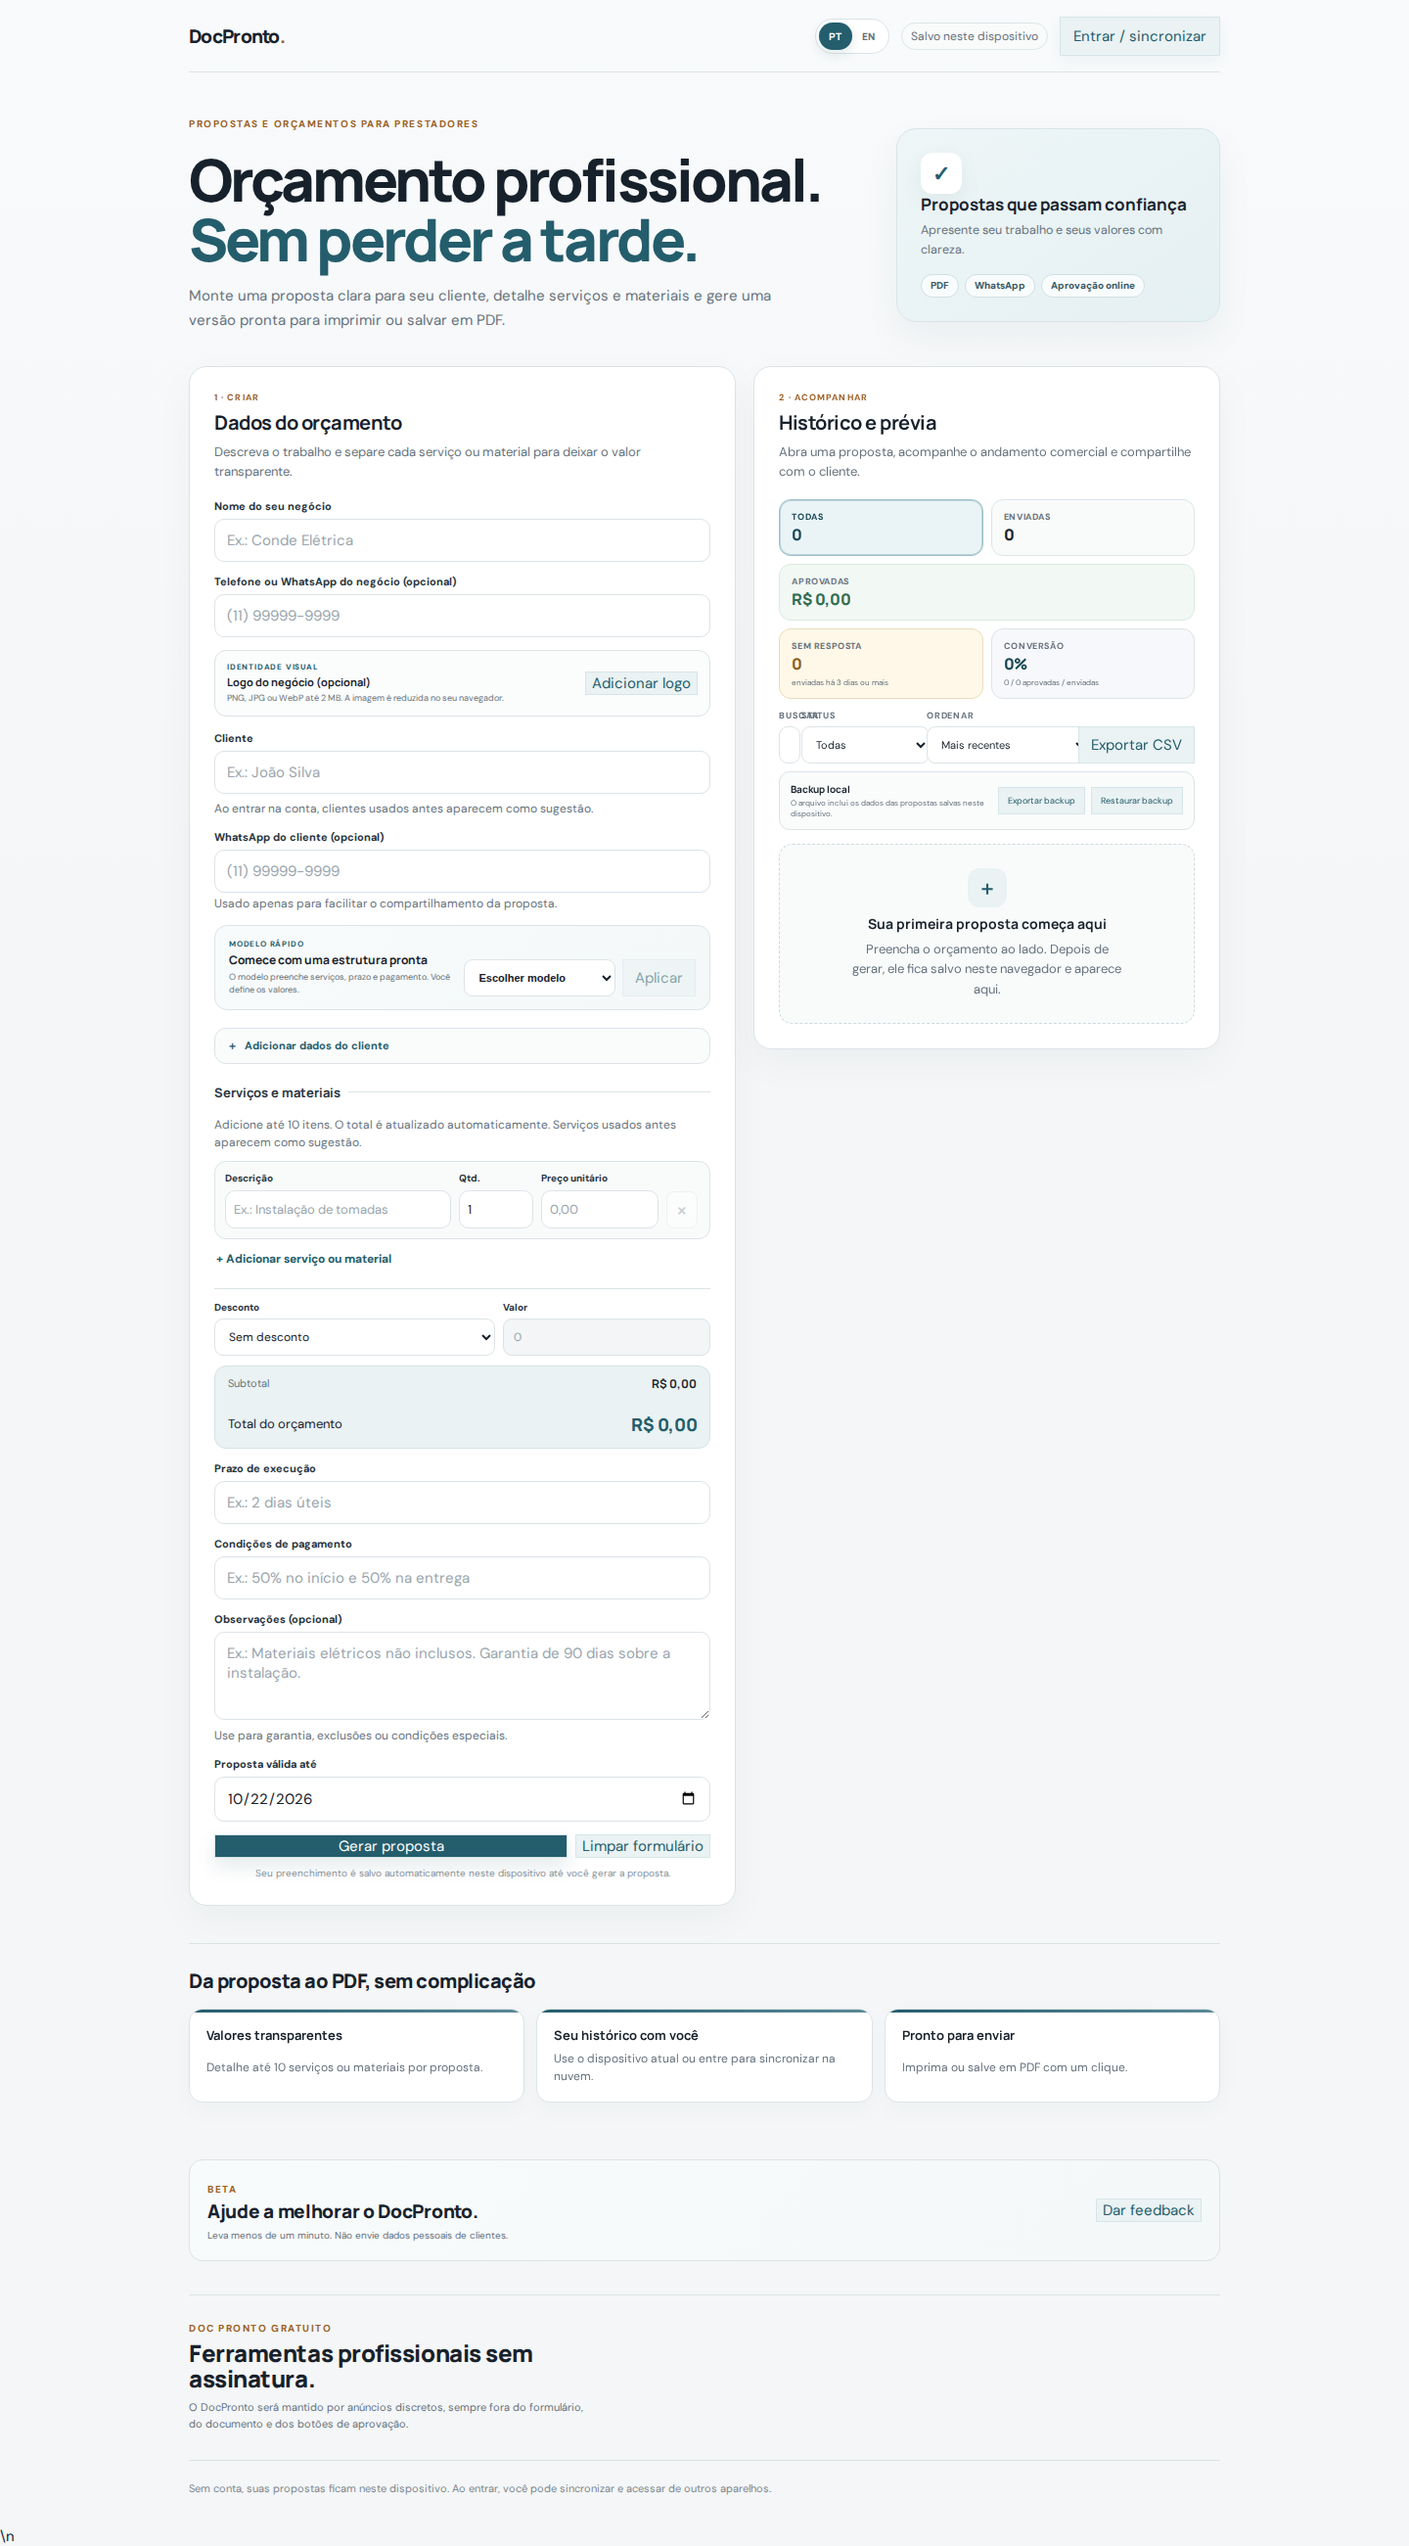
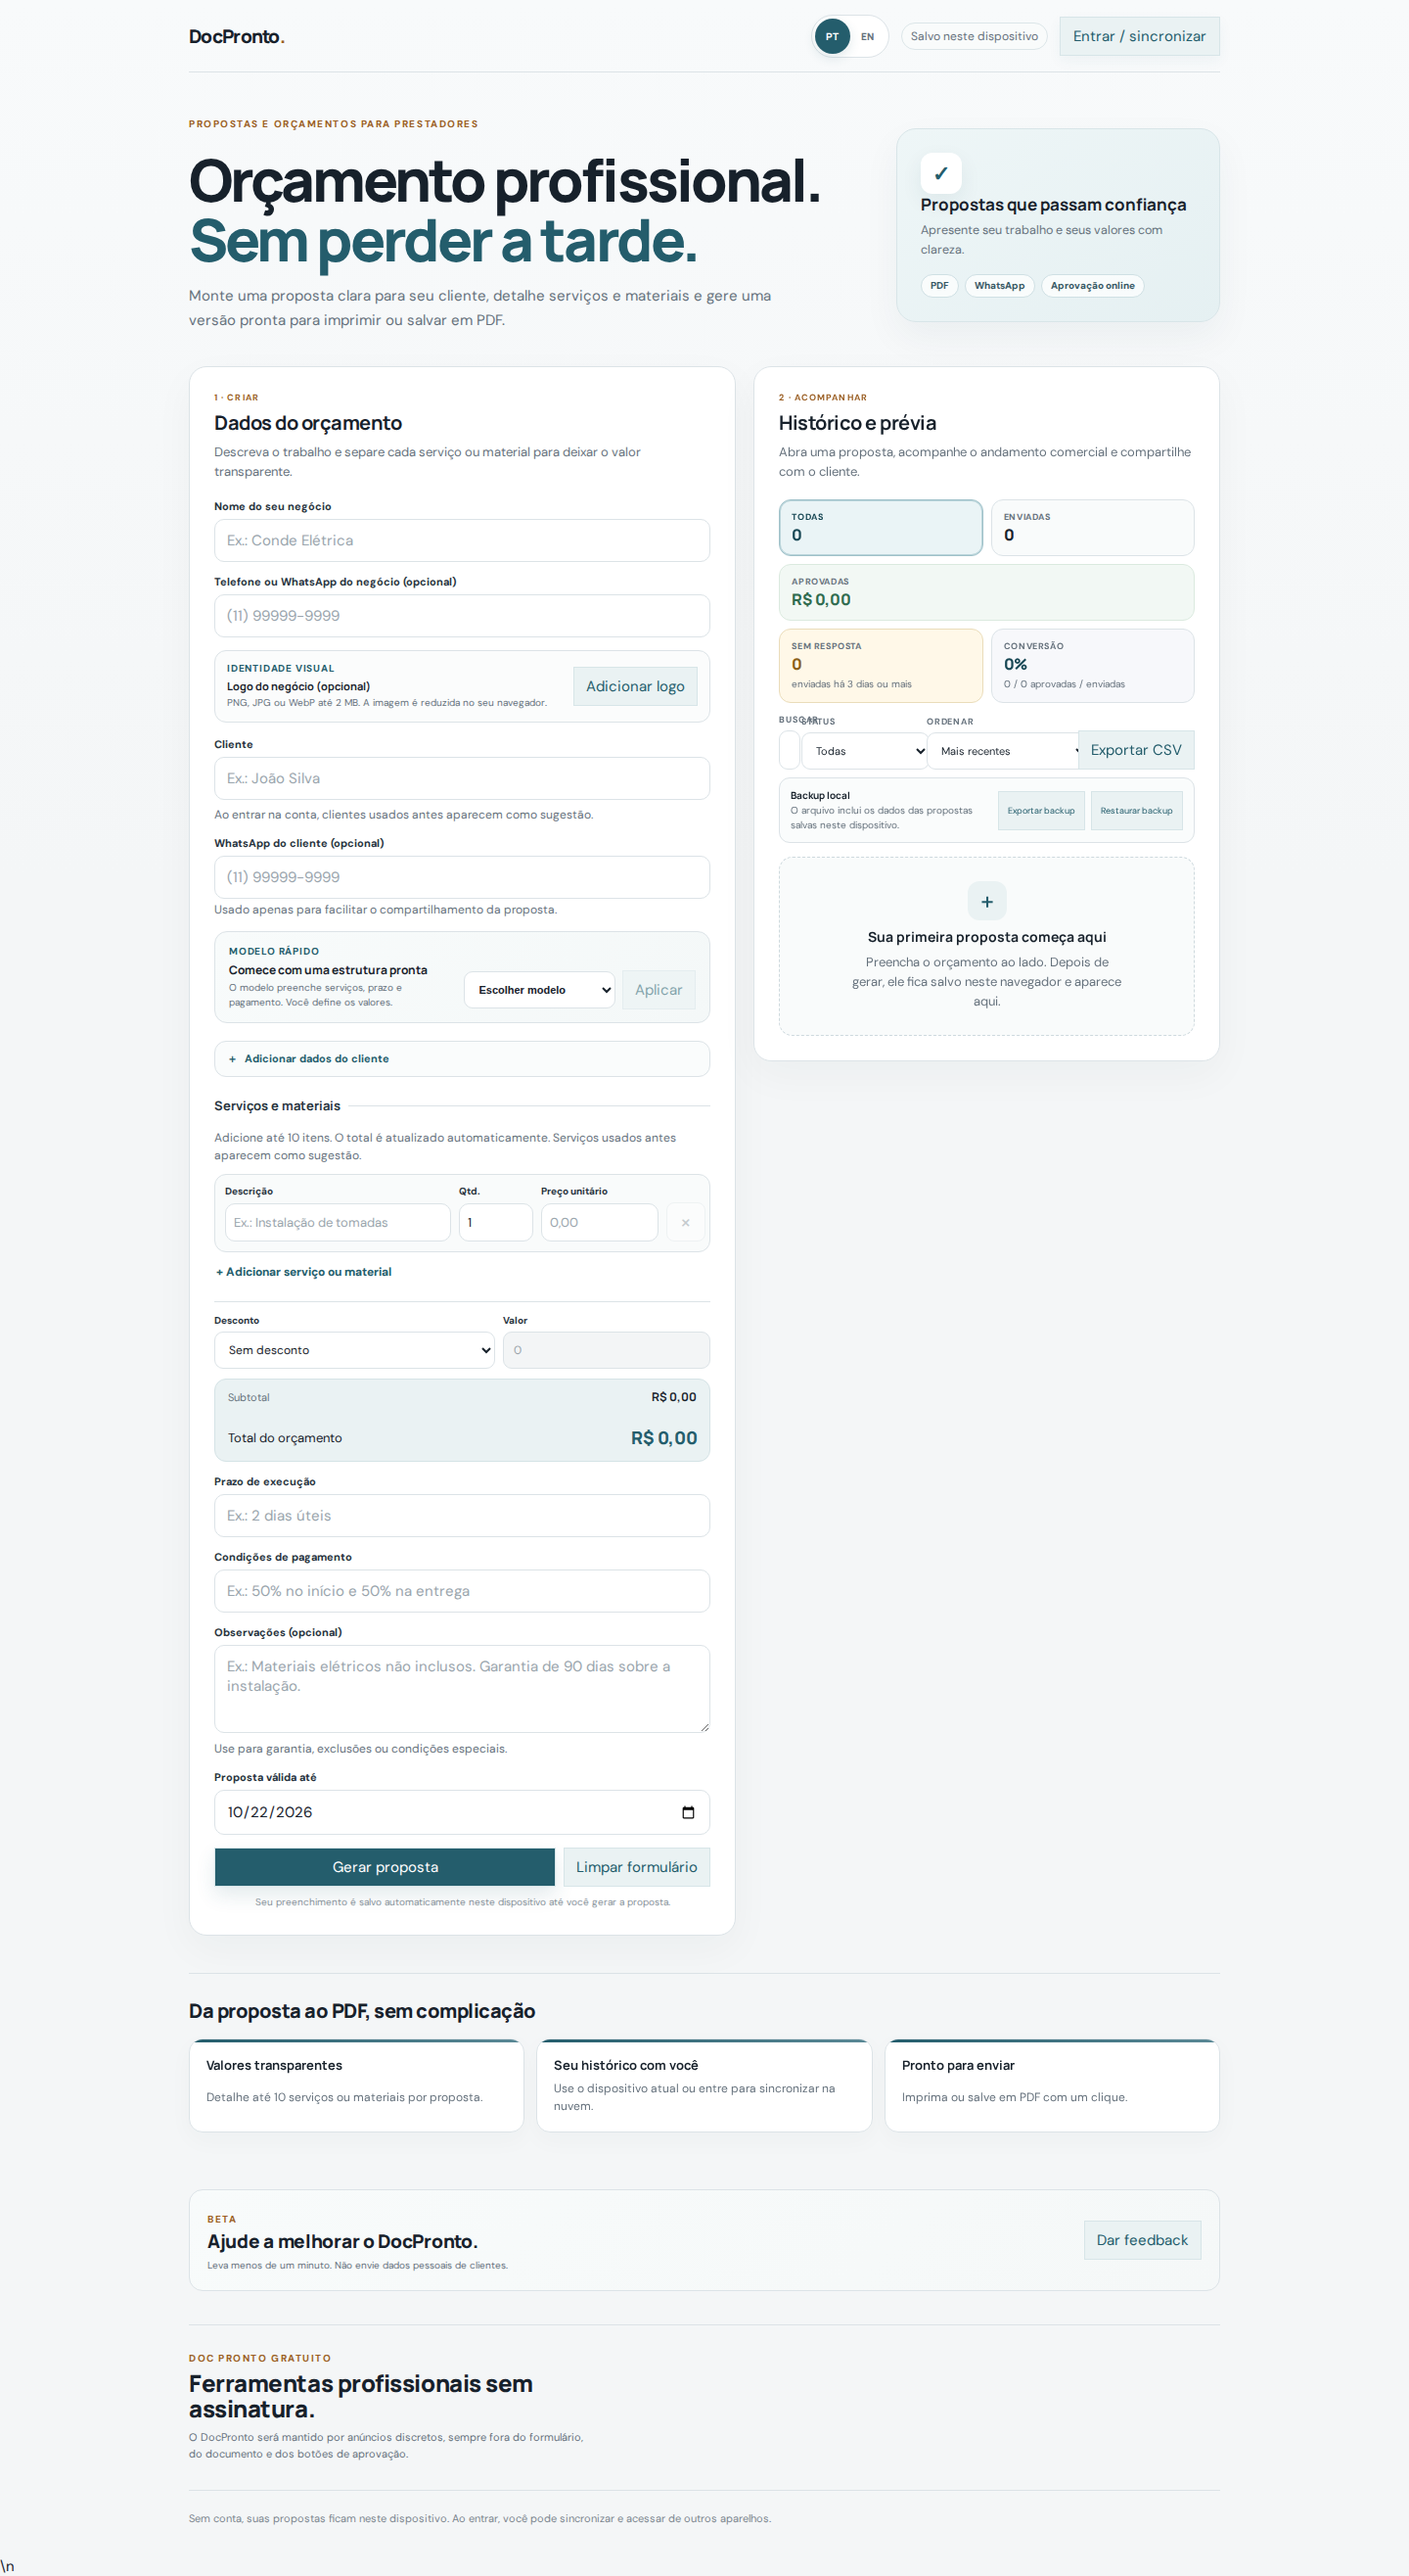
chore: update visual snapshots [skip ci]

diff --git a/screenshots/visual-audit.md b/screenshots/visual-audit.md
@@ -1,92 +1,56 @@
 # Visual audit
 
-Generated: 2026-10-07T06:56:39.115Z
+Generated: 2026-10-07T06:57:20.555Z
 
 ## desktop-full.png
 
 - Viewport: 1440×1000
-- Page: 1440×2601
+- Page: 1440×2631
 - Overflow elements: 0
-- Small tap targets: 11
-- Tiny text nodes (<10px): 19
+- Small tap targets: 1
+- Tiny text nodes (<10px): 12
 - Console errors: 0
 - Failed requests: 0
 - Broken images: 0
 
 ### Small tap targets
-- a#.brand: 98×26px — DocPronto.
-- button#.active: 34×28px — PT
-- button#.: 34×28px — EN
-- button#business-logo-choose.secondary: 115×24px — Adicionar logo
-- button#.remove-item: 32×38px — ×
-- button#.primary: 361×24px — Gerar proposta
-- button#clear-composer.secondary: 138×24px — Limpar formulário
-- input#proposal-search.: 22×38px — 
-- button#export-backup.secondary: 89×28px — Exportar backup
-- button#import-backup.secondary: 94×28px — Restaurar backup
-- button#beta-feedback-open.secondary: 108×24px — Dar feedback
+- input#proposal-search.: 22×40px — 
 
 ### Tiny text
 - 9px — 1 · CRIAR
-- 8px — IDENTIDADE VISUAL
-- 9px — PNG, JPG ou WebP até 2 MB. A imagem é reduzida no seu navegador.
-- 8px — MODELO RÁPIDO
-- 9px — O modelo preenche serviços, prazo e pagamento. Você define os valores.
 - 9px — 2 · ACOMPANHAR
 - 9px — Todas
 - 9px — Enviadas
 - 9px — Aprovadas
 - 9px — Sem resposta
-- 8px — enviadas há 3 dias ou mais
 - 9px — Conversão
-- 8px — 0 / 0 aprovadas / enviadas
 - 9px — Buscar
 - 9px — Status
 - 9px — Ordenar
-- 8px — O arquivo inclui os dados das propostas salvas neste dispositivo.
 - 9px — Exportar backup
 - 9px — Restaurar backup
 
 ## mobile-full.png
 
 - Viewport: 390×844
-- Page: 390×4196
+- Page: 390×4326
 - Overflow elements: 0
-- Small tap targets: 10
-- Tiny text nodes (<10px): 19
+- Small tap targets: 0
+- Tiny text nodes (<10px): 12
 - Console errors: 0
 - Failed requests: 0
 - Broken images: 0
 
-### Small tap targets
-- a#.brand: 98×26px — DocPronto.
-- button#.active: 31×28px — PT
-- button#.: 31×28px — EN
-- button#business-logo-choose.secondary: 115×24px — Adicionar logo
-- button#.remove-item: 32×38px — ×
-- button#.primary: 314×24px — Gerar proposta
-- button#clear-composer.secondary: 314×24px — Limpar formulário
-- button#export-backup.secondary: 142×28px — Exportar backup
-- button#import-backup.secondary: 142×28px — Restaurar backup
-- button#beta-feedback-open.secondary: 108×24px — Dar feedback
-
 ### Tiny text
 - 9px — 1 · CRIAR
-- 8px — IDENTIDADE VISUAL
-- 9px — PNG, JPG ou WebP até 2 MB. A imagem é reduzida no seu navegador.
-- 8px — MODELO RÁPIDO
-- 9px — O modelo preenche serviços, prazo e pagamento. Você define os valores.
 - 9px — 2 · ACOMPANHAR
 - 9px — Todas
 - 9px — Enviadas
 - 9px — Aprovadas
 - 9px — Sem resposta
-- 8px — enviadas há 3 dias ou mais
 - 9px — Conversão
-- 8px — 0 / 0 aprovadas / enviadas
 - 9px — Buscar
 - 9px — Status
 - 9px — Ordenar
-- 8px — O arquivo inclui os dados das propostas salvas neste dispositivo.
 - 9px — Exportar backup
 - 9px — Restaurar backup
